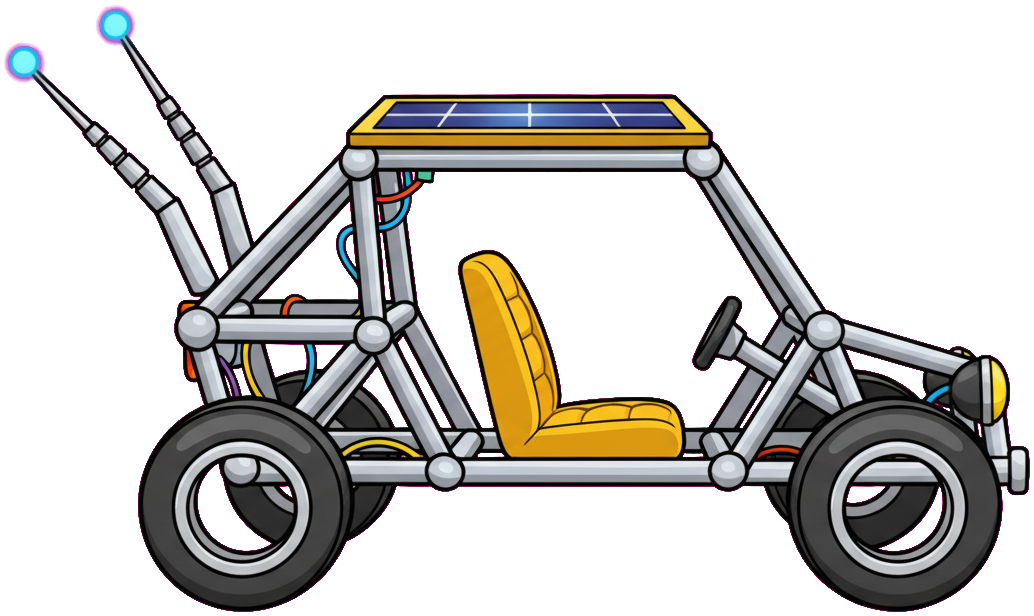
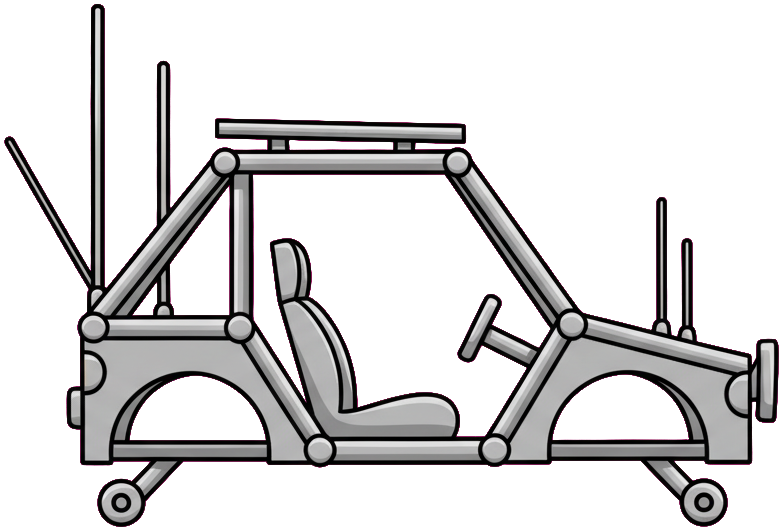
Hill Climb: gas-loslaten echt nodig, kapotte knoppen na crash, wielen op 6/7 auto's weg
- Reactiekoppel bij optrekken: de eerste 0,55s van een ononderbroken druk
  is gratis (tikken blijft altijd veilig), daarna bouwt het koppel
  kwadratisch op met de duur van díe druk. Los je, dan reset de teller
  direct. Dit dwingt echt gas loslaten/remmen af zoals in Hill Climb
  Racing, zonder normaal tik-ritme te straffen (91% duty cycle blijft
  veilig, continu volhouden crasht na ~11s)
- Bug gevonden en gefixt: Levels/Home-knoppen na game-over deden niets
  omdat alleen HCUI gestopt werd, niet HCGame — die bleef op de
  achtergrond doorrenderen en het nieuwe scherm volledig verbergen
  ("Opnieuw" viel dit niet op omdat die HCGame toch al herstart)
- setMask() verwijderd uit LevelSelectScene (niet ondersteund onder
  WebGL in Phaser 4, spamde de console zonder effect)
- 6 van de 7 nieuwe voertuig-sprites opnieuw gegenereerd met een veel
  explicietere "geen wielen"-instructie (quad, tractor, raceauto,
  brandweer, schoolbus, maanbuggy zijn nu schoon); politieauto blijft
  nog wielen tonen — Gemini-API-credits raakten op tijdens het fixen
- Tractorwiel opnieuw gegenereerd: was in 3/4-perspectief getekend
  (hobbelde zichtbaar bij rotatie), nu recht van opzij

Bekend openstaand punt: politieauto (Voertuigen/politie.png) toont nog
steeds ingebakken wielen — moet opnieuw gegenereerd worden zodra er
weer Gemini-credits beschikbaar zijn.

diff --git a/src/games/hillclimb/vehicle.js b/src/games/hillclimb/vehicle.js
@@ -3,6 +3,14 @@
 // (grip met de grond doet de rest); in de lucht kantelt gas/rem het
 // chassis zelf (voor flips/stunts).
 
+// Reactiekoppel-tuning: de eerste GENADE_TIJD seconden van één ononder-
+// broken druk kosten niets (tikken blijft altijd veilig, ongeacht hoe vaak).
+// Daarna bouwt het koppel kwadratisch op met de duur van DIE druk — laat je
+// los, dan telt de teller direct opnieuw vanaf 0. Zo hangt gevaar alleen af
+// van "hoe lang houd je 'm nu al ingedrukt", niet van het ritme daarvoor.
+const GENADE_TIJD = 0.55   // seconden gratis per druk
+const WHEELIE_RAMP = 1.4   // opbouwsnelheid ná de genadetijd
+
 export class Vehicle {
   constructor(scene, x, y, stats) {
     this.scene = scene
@@ -12,6 +20,8 @@ export class Vehicle {
     // tegelijk raken en het verlaten van één slab betekent niet "in de lucht".
     this.contactsL = 0
     this.contactsR = 0
+    this._holdTime = 0        // seconden dat de HUIDIGE druk al duurt
+    this._holdSign = 0        // richting van die druk (1 gas, -1 rem, 0 los)
 
     const M = scene.matter
     // Spawn de wielen exact op rustlengte van de vering — een mismatch geeft
@@ -60,6 +70,14 @@ export class Vehicle {
   _applyPhysicsStep() {
     const Body = this.scene.matter.body
     const t = this.throttle
+    const dt = 1 / 60
+
+    // Duur van de HUIDIGE ononderbroken druk bijhouden. Andere richting of
+    // loslaten (t=0) reset hem meteen — alleen dit maakt "te lang volhouden"
+    // gevaarlijk, ongeacht hoe druk je verder op de knop tikt.
+    const sign = Math.sign(t)
+    this._holdTime = sign !== 0 && sign === this._holdSign ? this._holdTime + dt : 0
+    this._holdSign = sign
 
     if (t !== 0) {
       if (this.grounded) {
@@ -71,6 +89,17 @@ export class Vehicle {
           let av = w.angularVelocity + accel * t
           av = Math.max(-maxSpin, Math.min(maxSpin, av))
           Body.setAngularVelocity(w, av)
+        }
+        // Reactiekoppel van de aandrijving: net als in Hill Climb Racing
+        // duwt aanhoudend gas de neus omhoog (rem de neus omlaag). Pas ná de
+        // genadetijd van déze druk, en dan kwadratisch oplopend — dus tikken
+        // blijft altijd veilig, maar vasthouden wordt snel link.
+        const over = Math.max(0, this._holdTime - GENADE_TIJD)
+        if (over > 0) {
+          const pitchCap = 0.6
+          let pav = this.chassis.angularVelocity - this.stats.power * sign * over * over * WHEELIE_RAMP
+          pav = Math.max(-pitchCap, Math.min(pitchCap, pav))
+          Body.setAngularVelocity(this.chassis, pav)
         }
       } else {
         // Luchtcontrole: gas = neus omhoog (backflip), rem = neus omlaag —

diff --git a/src/games/hillclimb/scenes/UIScene.js b/src/games/hillclimb/scenes/UIScene.js
@@ -103,16 +103,23 @@ export default class UIScene extends Phaser.Scene {
       fontSize: '18px', fontFamily: 'Arial Black', color: '#ffd23f',
     }).setOrigin(0.5).setDepth(61)
 
+    // Belangrijk: HCGame expliciet stoppen bij Levels/Home. Bij "Opnieuw"
+    // valt dit niet op (start('HCGame',…) vervangt de actieve HCGame vanzelf),
+    // maar zonder dit bleef HCGame op de achtergrond doorrenderen en het
+    // nieuwe scherm volledig aan het zicht onttrekken — leek alsof de knop
+    // niets deed, terwijl de sceneswissel wél degelijk gebeurde.
     this._overlayBtn(W / 2 - 150, H / 2 + 70, '🔄 Opnieuw', 0xb8742a, () => {
       this.scene.stop('HCUI')
       this.scene.start('HCGame', { vehicleId: this.gameScene.vehicleId, levelId: this.levelId })
     }, 170)
     this._overlayBtn(W / 2 + 40, H / 2 + 70, '🗺 Levels', 0x245a8a, () => {
       this.scene.stop('HCUI')
+      this.scene.stop('HCGame')
       this.scene.start('HCLevelSelect')
     }, 170)
     this._overlayBtn(W / 2 + 190, H / 2 + 70, '🏠', 0x37415a, () => {
       this.scene.stop('HCUI')
+      this.scene.stop('HCGame')
       this.scene.start('HCHome')
     }, 66)
   }

diff --git a/src/games/hillclimb/scenes/LevelSelectScene.js b/src/games/hillclimb/scenes/LevelSelectScene.js
@@ -42,13 +42,11 @@ export default class LevelSelectScene extends Phaser.Scene {
     const g = this.add.graphics().setDepth(2)
     drawPanel(g, x, y, CARD_W, CARD_H, { border: unlocked ? COL.rand : 0x3a4152 })
 
+    // Phaser 4 ondersteunt setMask() niet meer onder WebGL (spamt een
+    // console-warning zonder effect) — vierkante hoeken binnen het ronde
+    // paneel is een prima alternatief.
     const img = this.add.image(x + CARD_W / 2, y + 74, `hc_card_${id}`)
       .setDisplaySize(CARD_W - 20, 118).setDepth(3)
-    // afgeronde uitsnede voor de level-afbeelding
-    const maskG = this.make.graphics({ add: false })
-    maskG.fillStyle(0xffffff)
-    maskG.fillRoundedRect(x + 10, y + 15, CARD_W - 20, 118, 10)
-    img.setMask(maskG.createGeometryMask())
 
     this.add.text(x + CARD_W / 2, y + 152, `${lvl.emoji} ${lvl.name}`, {
       fontSize: '17px', fontFamily: 'Arial Black', color: '#ffffff',
